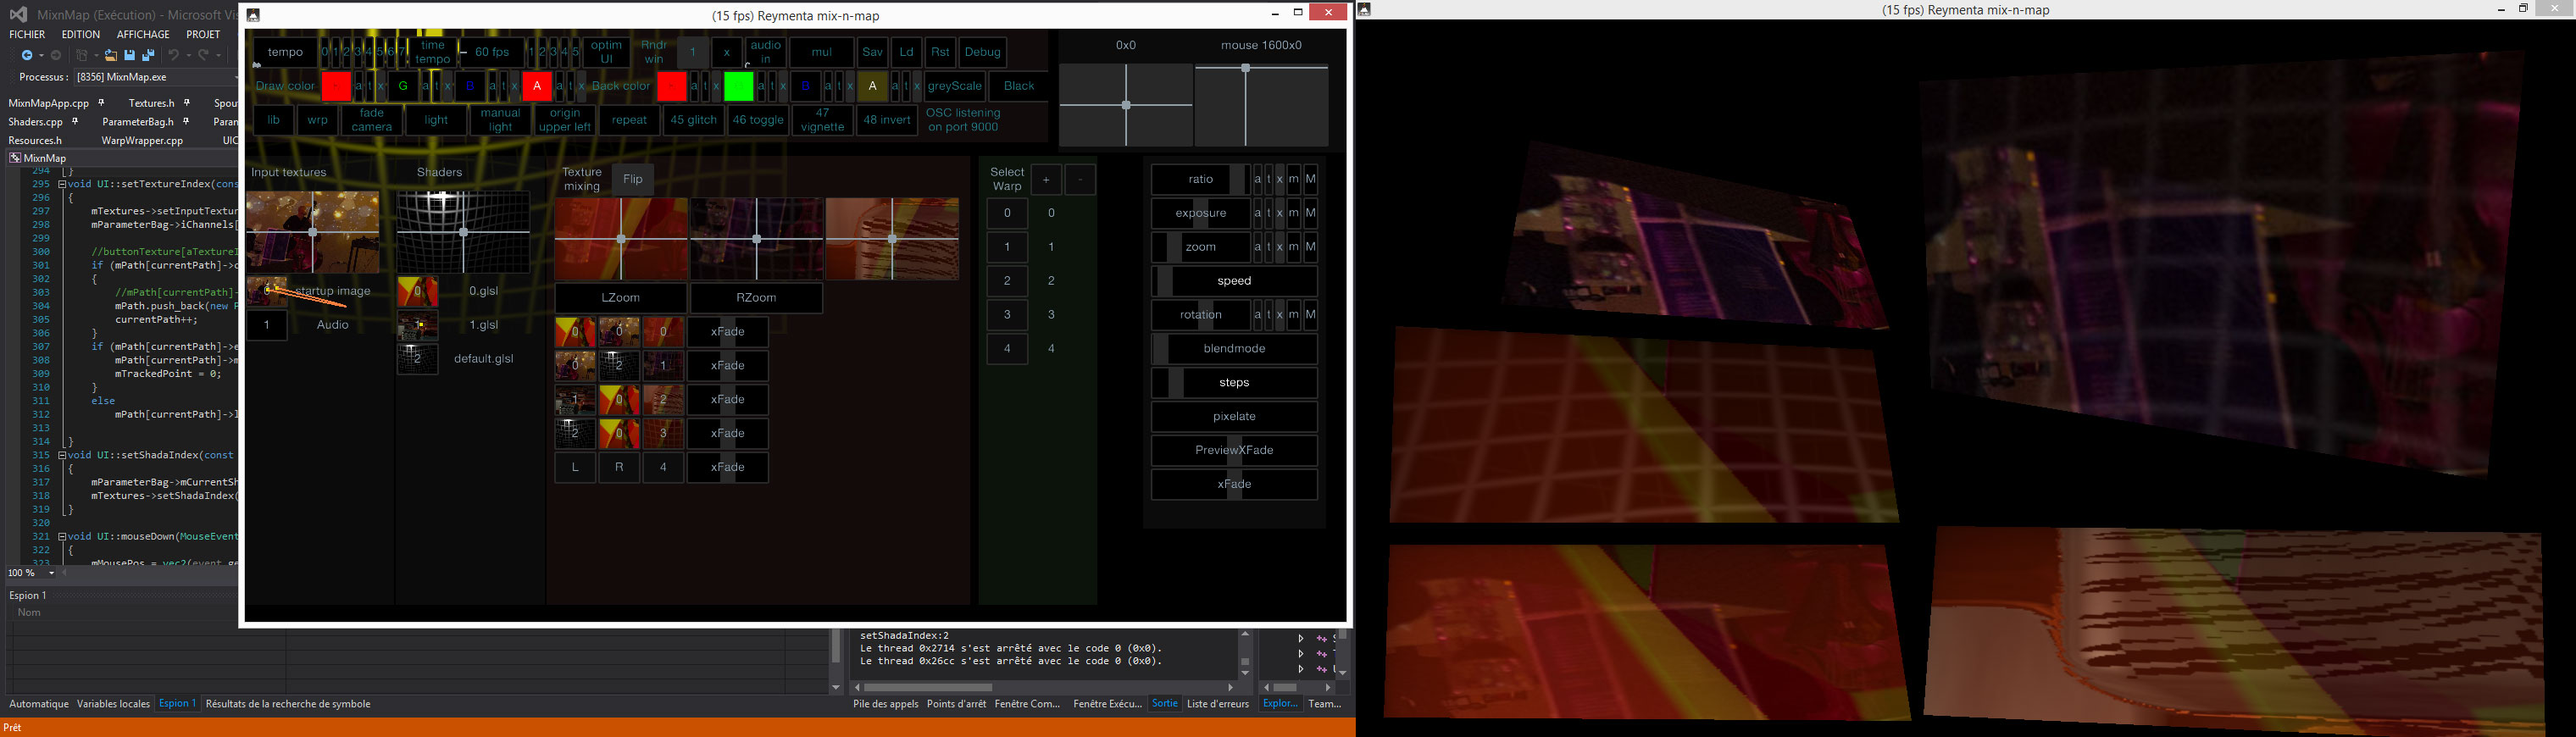
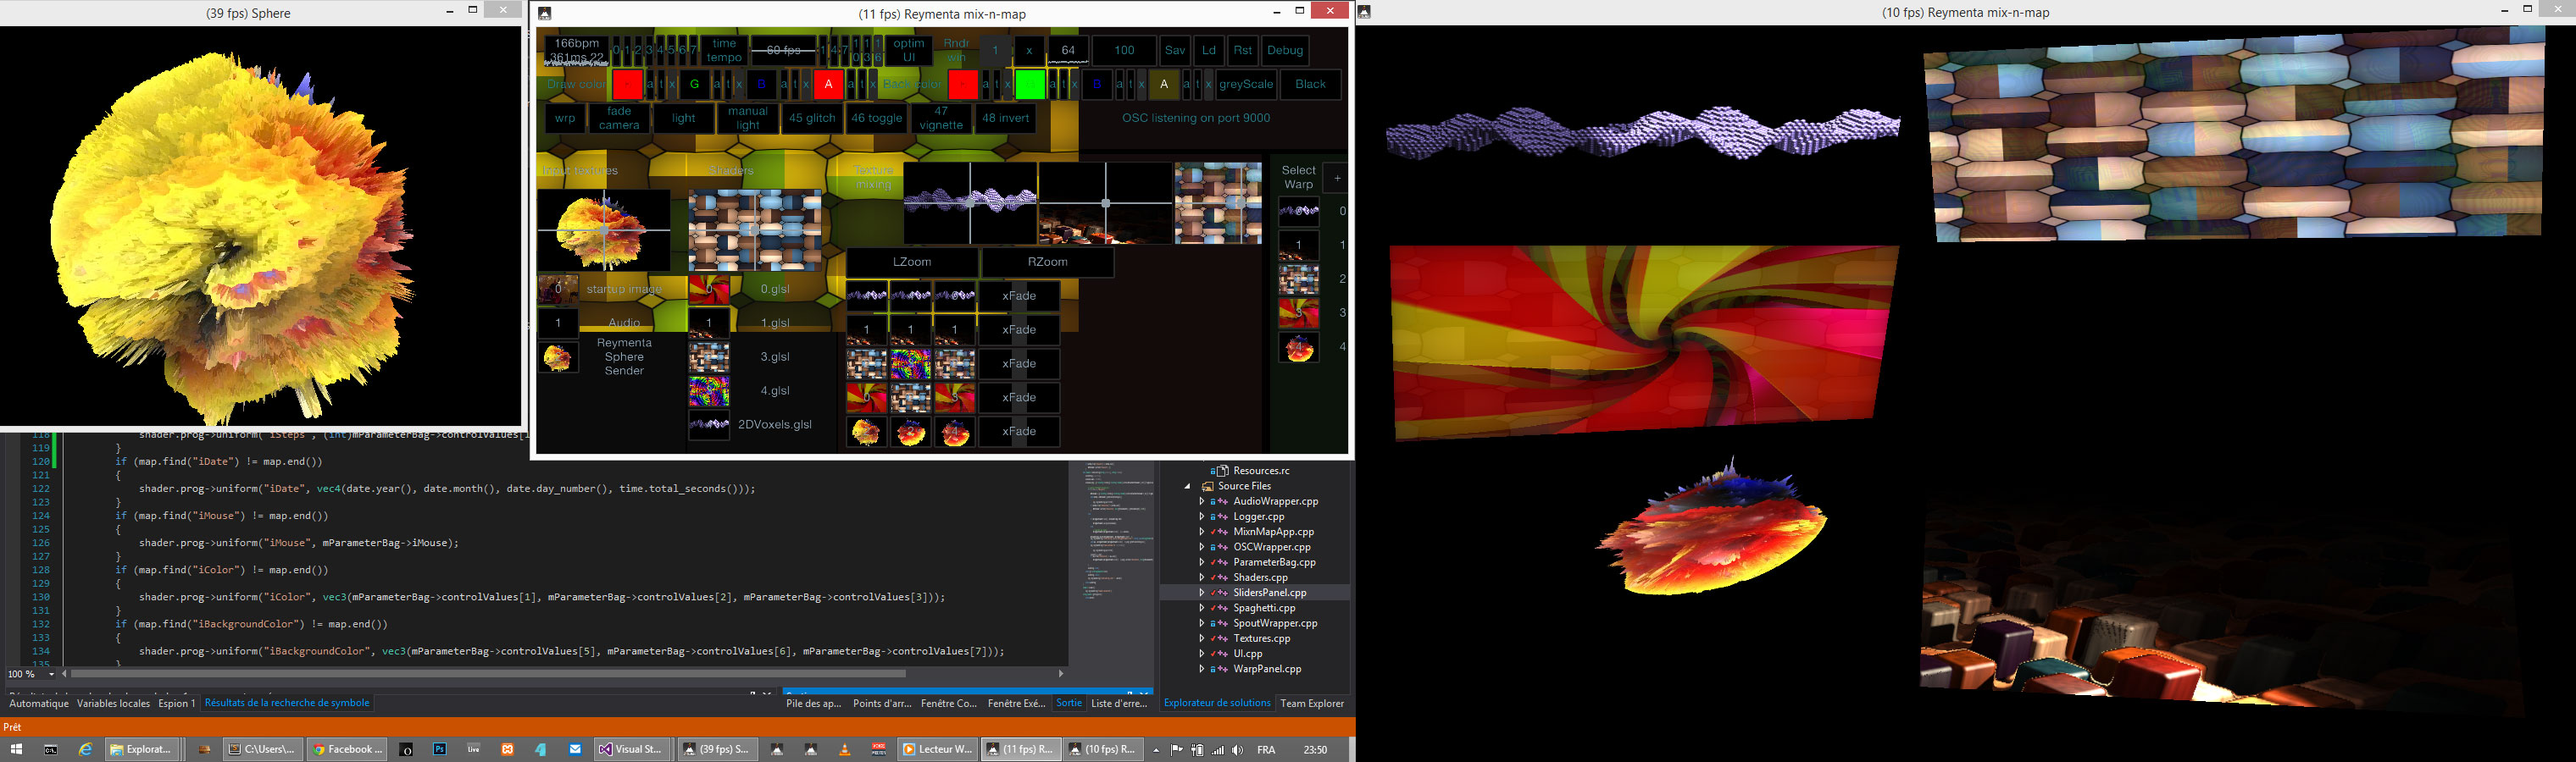
yay

diff --git a/src/UI.cpp b/src/UI.cpp
@@ -66,7 +66,7 @@ void UI::createWarp()
 
 void UI::setupMiniControl()
 {
-	mMiniControl = UIController::create("{ \"x\":0, \"y\":0, \"depth\":100, \"width\":948, \"height\":134, \"fboNumSamples\":0, \"panelColor\":\"0x44402828\" }");
+	mMiniControl = UIController::create("{ \"x\":0, \"y\":0, \"depth\":100, \"width\":960, \"height\":144, \"fboNumSamples\":0, \"panelColor\":\"0x44402828\" }");
 	mMiniControl->setFont("label", mParameterBag->mLabelFont);
 	mMiniControl->setFont("smallLabel", mParameterBag->mSmallLabelFont);
 	mMiniControl->setFont("icon", mParameterBag->mIconFont);
@@ -157,19 +157,17 @@ void UI::setupMiniControl()
 	mMiniControl->addButton("light", std::bind(&UI::toggleLight, this, std::placeholders::_1), "{ \"clear\":false, \"width\":72, \"stateless\":false }");
 	mMiniControl->addButton("manual light", std::bind(&UI::toggleLightAuto, this, std::placeholders::_1), "{ \"clear\":false, \"width\":72, \"stateless\":false }");
 
-	mMiniControl->addButton("origin\nupper left", std::bind(&UI::toggleOriginUpperLeft, this, std::placeholders::_1), "{ \"clear\":false, \"width\":72, \"stateless\":false }");
-	mMiniControl->addButton("repeat", std::bind(&UI::toggleRepeat, this, std::placeholders::_1), "{ \"clear\":false, \"width\":72, \"stateless\":false }");
 	mMiniControl->addButton("45 glitch", std::bind(&UI::toggleGlitch, this, std::placeholders::_1), "{ \"clear\":false, \"width\":72, \"stateless\":false }");
 	mMiniControl->addButton("46 toggle", std::bind(&UI::toggleAudioReactive, this, std::placeholders::_1), "{ \"clear\":false, \"width\":72, \"stateless\":false }");
 	mMiniControl->addButton("47 vignette", std::bind(&UI::toggleVignette, this, std::placeholders::_1), "{ \"clear\":false, \"width\":72, \"stateless\":false }");
 	mMiniControl->addButton("48 invert", std::bind(&UI::toggleInvert, this, std::placeholders::_1), "{ \"clear\":false, \"width\":72, \"stateless\":false }");
 
-	labelOSC = mMiniControl->addLabel("OSC", "{ \"clear\":false, \"width\":100 }");
-	labelInfo = mMiniControl->addLabel("Info", "{ \"width\":100 }");
+	labelOSC = mMiniControl->addLabel("OSC", "{ \"width\":370 }");
+	labelError = mMiniControl->addLabel("", "{ \"width\":960 }");
 }
 void UI::setupGlobal()
 {
-	gParams = UIController::create("{ \"x\":960, \"y\":0, \"depth\":280, \"width\":340, \"height\":146, \"marginLarge\":2, \"fboNumSamples\":0, \"panelColor\":\"0x44282828\", \"defaultBackgroundColor\":\"0xFF0d0d0d\", \"defaultNameColor\":\"0xFF90a5b6\", \"defaultStrokeColor\":\"0xFF282828\", \"activeStrokeColor\":\"0xFF919ea7\" }", mWindow);
+	gParams = UIController::create("{ \"x\":964, \"y\":0, \"depth\":280, \"width\":332, \"height\":146, \"marginLarge\":2, \"fboNumSamples\":0, \"panelColor\":\"0x44282828\", \"defaultBackgroundColor\":\"0xFF0d0d0d\", \"defaultNameColor\":\"0xFF90a5b6\", \"defaultStrokeColor\":\"0xFF282828\", \"activeStrokeColor\":\"0xFF919ea7\" }", mWindow);
 	gParams->setFont("label", mParameterBag->mLabelFont);
 	gParams->setFont("smallLabel", mParameterBag->mSmallLabelFont);
 	gParams->setFont("icon", mParameterBag->mIconFont);
@@ -186,8 +184,6 @@ void UI::setupGlobal()
 
 	string posXY = toString(mParameterBag->mRenderWidth * 3) + ", \"minY\":" + toString(mParameterBag->mRenderHeight) + ", \"maxY\":0.0, \"width\":" + toString(mParameterBag->mPreviewWidth) + " }";
 	sliderRenderPosXY = gParams->addSlider2D("renderPosXY", &mParameterBag->mRenderPosXY, "{ \"minX\":0.0, \"maxX\":" + posXY);
-
-	labelError = gParams->addLabel("no error", "{ \"clear\":false, \"width\":370, \"nameColor\":\"0xFFAA0000\" }");
 }
 void UI::setupTextures()
 {
@@ -233,16 +229,11 @@ void UI::setupLibrary()
 	mixParams->setFont("footer", mParameterBag->mFooterFont);
 	mPanels.push_back(mixParams);
 	mixParams->addLabel("Texture mixing", "{ \"clear\":false, \"width\":64 }");
-	flipButton = mixParams->addButton("Flip", std::bind(&UI::flipLibraryCurrentFbo, this, std::placeholders::_1), "{ \"width\":48, \"stateless\":false, \"pressed\":true }");
 	sliderLeftRenderXY = mixParams->addSlider2D("LeftXY", &mParameterBag->mLeftRenderXY, "{ \"clear\":false, \"minX\":-2.0, \"maxX\":2.0, \"minY\":-2.0, \"maxY\":2.0, \"width\":" + toString(mParameterBag->mPreviewWidth) + " }");
 	sliderRightRenderXY = mixParams->addSlider2D("RightXY", &mParameterBag->mRightRenderXY, "{ \"clear\":false, \"minX\":-2.0, \"maxX\":2.0, \"minY\":-2.0, \"maxY\":2.0, \"width\":" + toString(mParameterBag->mPreviewWidth) + " }");
 	sliderMixRenderXY = mixParams->addSlider2D("MixXY", &mParameterBag->mPreviewRenderXY, "{ \"minX\":-2.0, \"maxX\":2.0, \"minY\":-2.0, \"maxY\":2.0, \"width\":" + toString(mParameterBag->mPreviewWidth) + " }");
 	mixParams->addSlider("LZoom", &mParameterBag->iZoomLeft, "{ \"clear\":false, \"width\":" + toString(mParameterBag->mPreviewWidth) + ", \"min\":0.1, \"max\":5.0 }");
 	mixParams->addSlider("RZoom", &mParameterBag->iZoomRight, "{ \"width\":" + toString(mParameterBag->mPreviewWidth) + ", \"min\":0.1, \"max\":5.0 }");
-}
-void UI::flipLibraryCurrentFbo(const bool &pressed)
-{
-	mTextures->flipMixFbo(pressed);
 }
 
 void UI::setPreview(const int &aIndex, const bool &pressed)
@@ -612,7 +603,6 @@ void UI::update()
 				fpsMvg->setName(toString(floor(mParameterBag->iFps)) + " fps");
 
 				labelOSC->setName(mParameterBag->OSCMsg);
-				labelInfo->setName(mParameterBag->InfoMsg);
 				labelError->setName(mShaders->getFragError());
 
 				for (int i = 0; i < buttonShada.size(); i++)
@@ -760,10 +750,6 @@ void UI::toggleOptimizeUI(const bool &pressed)
 {
 	mParameterBag->mOptimizeUI = pressed;
 }
-void UI::toggleRepeat(const bool &pressed)
-{
-	mParameterBag->iRepeat = pressed;
-}
 void UI::toggleLight(const bool &pressed)
 {
 	mParameterBag->iLight = pressed;
@@ -781,10 +767,6 @@ void UI::toggleGreyScale(const bool &pressed)
 		mParameterBag->controlValues[5] = mParameterBag->controlValues[6] = mParameterBag->controlValues[7];
 	}
 
-}
-void UI::toggleOriginUpperLeft(const bool &pressed)
-{
-	mParameterBag->mOriginUpperLeft = pressed;
 }
 void UI::useLineIn(const bool &pressed)
 {

diff --git a/include/UI.h b/include/UI.h
@@ -51,13 +51,11 @@ namespace Reymenta
 		void								toggleOptimizeUI(const bool &pressed);
 		void								toggleAudioReactive(const bool &pressed);
 		void								toggleVignette(const bool &pressed);
-		void								toggleRepeat(const bool &pressed);
 		void								toggleInvert(const bool &pressed);
 		void								toggleLight(const bool &pressed);
 		void								toggleLightAuto(const bool &pressed);
 		void								toggleFade(const bool &pressed);
 		void								toggleGreyScale(const bool &pressed);
-		void								toggleOriginUpperLeft(const bool &pressed);
 		void								InstantBlack(const bool &pressed);
 		void								debug(const bool &pressed);
 		void								showFps(const bool &pressed);
@@ -105,7 +103,7 @@ namespace Reymenta
 		MinimalUI::UIElementRef				labelXY, labelPosXY;
 		MinimalUI::UIElementRef				sliderRenderXY, sliderRenderPosXY, sliderXSpeed, sliderYSpeed, sliderPreviewTextureXY, sliderPreviewShadaXY;
 
-		MinimalUI::UIElementRef				labelOSC, labelError, labelLayer, labelInfo;
+		MinimalUI::UIElementRef				labelOSC, labelError, labelLayer;
 		MinimalUI::UIElementRef				buttonChannels;
 		vector<MinimalUI::UIElementRef>		buttonShada, buttonTexture, labelTexture, labelShada;
 		
@@ -176,14 +174,12 @@ namespace Reymenta
 		void								resetSettings(const bool &pressed = true);
 
 		// library panel
-		void								flipLibraryCurrentFbo(const bool &pressed);
-
 		void								setLeftInput(const int &aIndex, const bool &pressed);
 		void								setRightInput(const int &aIndex, const bool &pressed);
 		void								setPreview(const int &aIndex, const bool &pressed);
 
 		vector<MinimalUI::UIElementRef>		buttonSelect, buttonLeft, buttonRight, sliderCrossfade;
-		MinimalUI::UIElementRef				flipButton, sliderLeftRenderXY, sliderRightRenderXY, sliderMixRenderXY;
+		MinimalUI::UIElementRef				sliderLeftRenderXY, sliderRightRenderXY, sliderMixRenderXY;
 
 };
 }

diff --git a/src/Shaders.cpp b/src/Shaders.cpp
@@ -28,7 +28,7 @@ Shaders::Shaders(ParameterBagRef aParameterBag)
 	localFile = getAssetPath("") / "shaders" / fileName;
 	loadPixelFragmentShader(localFile.string());
 	//! init some shaders
-	for (size_t m = 0; m < 3; m++)
+	for (size_t m = 0; m < 8; m++)
 	{
 		fileName = toString(m) + ".glsl";
 		localFile = getAssetPath("") / "shaders" / fileName;
@@ -74,7 +74,6 @@ bool Shaders::loadPixelFragmentShader(const fs::path &fragment_path)
 		if (mFile.find_last_of("\\") != std::string::npos) mFragFileName = mFile.substr(mFile.find_last_of("\\") + 1);
 		if (fs::exists(fragment_path))
 		{
-			//validFrag = false;
 			std::string fs = header + loadString(loadFile(fragment_path));
 			rtn = setGLSLString(fs, mFragFileName);
 		}
@@ -93,12 +92,6 @@ bool Shaders::loadPixelFragmentShader(const fs::path &fragment_path)
 		mError = string(e.what());
 		log->logTimedString(mFile + " unable to load shader:" + string(e.what()));
 	}
-	if (!rtn)
-	{
-		// error load default fragment shader
-		std::string fs = header + defaultFragmentShader;
-		rtn = setGLSLString(fs, "default.glsl");
-	}
 	return rtn;
 }
 void Shaders::update()
@@ -115,6 +108,14 @@ void Shaders::update()
 		if (map.find("iGlobalTime") != map.end())
 		{
 			shader.prog->uniform("iGlobalTime", static_cast<float>(getElapsedSeconds()));
+		}
+		if (map.find("iZoom") != map.end())
+		{
+			shader.prog->uniform("iZoom", mParameterBag->controlValues[13]);
+		}
+		if (map.find("iSteps") != map.end())
+		{
+			shader.prog->uniform("iSteps", (int)mParameterBag->controlValues[16]);
 		}
 		if (map.find("iDate") != map.end())
 		{

diff --git a/include/ParameterBag.h b/include/ParameterBag.h
@@ -33,13 +33,13 @@ namespace Reymenta {
 	{
 	public:
 		ParameterBag();
-		static ParameterBagRef create();
+		static ParameterBagRef		create();
 
-		bool save();
-		bool restore();
-		void reset();
+		bool						save();
+		bool						restore();
+		void						reset();
 		// fonts
-		ci::Font mLabelFont, mSmallLabelFont, mIconFont, mHeaderFont, mBodyFont, mFooterFont;
+		ci::Font					mLabelFont, mSmallLabelFont, mIconFont, mHeaderFont, mBodyFont, mFooterFont;
 
 		// params
 		std::string					mOSCDestinationHost;
@@ -47,7 +47,6 @@ namespace Reymenta {
 		int							mOSCReceiverPort;
 		std::string					OSCMsg;
 		int							mPreviewWidth, mPreviewHeight;
-		std::string					InfoMsg;
 		// render windows
 		int							mRenderWidth;
 		int							mRenderHeight;
@@ -71,8 +70,8 @@ namespace Reymenta {
 		ColorA						FPSColor;
 		ColorA						ColorGreen;
 		ColorA						ColorRed;
-		//! maximum bound for fbos, shaders, textures
-		static const int			MAX = 8;
+		//! maximum number of fbos, shaders, textures
+		static const int			MAX = 16;
 		// audio
 		float						*mData;
 		float						maxVolume;
@@ -80,8 +79,6 @@ namespace Reymenta {
 		float						mAudioMultFactor;
 		float						iFreqs[4];
 		int							mAudioTextureIndex;
-		// Textures
-		bool						mOriginUpperLeft;
 
 		// OSC/MIDI/JSON controlled UI and params
 		map<int, float>				controlValues;
@@ -91,7 +88,6 @@ namespace Reymenta {
 		map<int, int>				iWarpFboChannels;
 		// fbos
 		int							mFboWidth, mFboHeight;
-		bool						mFlipFbo;
 		int							mWarpCount;
 		int							mCurrentShadaFboIndex;
 		int							mMixFboIndex;

diff --git a/src/MixnMapApp.cpp b/src/MixnMapApp.cpp
@@ -245,6 +245,7 @@ void MixnMapApp::drawRender()
 	//! clear the window
 	gl::clear();
 	gl::pushMatrices();
+	// origin upper left set to false for warps
 	gl::setMatricesWindow(mParameterBag->mRenderWidth, mParameterBag->mRenderHeight, false);
 	gl::pushViewport(0, 0, mParameterBag->mRenderWidth, mParameterBag->mRenderHeight);
 	
@@ -265,7 +266,6 @@ void MixnMapApp::drawMain()
 {
 	//! clear the window
 	gl::clear(ColorAf(0.0f, 0.0f, 0.0f, 0.0f));
-	//gl::setMatricesWindow(getWindowSize());
 	//! draw Spout received textures
 	mSpout->draw();
 	mTextures->draw();
@@ -313,7 +313,7 @@ void MixnMapApp::createRenderWindow()
 
 #ifdef _DEBUG
 	// debug mode
-	mRenderWindow->setPos(mParameterBag->mRenderX, 20);	
+	mRenderWindow->setPos(mParameterBag->mRenderX, 40);	
 #else
 	mRenderWindow->setBorderless();
 	mRenderWindow->setPos(mParameterBag->mRenderX, 0);
@@ -446,11 +446,6 @@ void MixnMapApp::keyDown(KeyEvent event)
 	case KeyEvent::KEY_s:
 		showCursor();
 		mParameterBag->mShowUI = true;
-		break;
-	case KeyEvent::KEY_p:
-		// flip fbo
-		mParameterBag->mFlipFbo = !mParameterBag->mFlipFbo;
-		mTextures->flipMixFbo(mParameterBag->mFlipFbo);
 		break;
 	case KeyEvent::KEY_SPACE:
 		// save warp settings

diff --git a/src/ParameterBag.cpp b/src/ParameterBag.cpp
@@ -166,12 +166,10 @@ void ParameterBag::reset()
 
 
 	// fbo
-	mFlipFbo = false;
 	mFboWidth = 640;
 	mFboHeight = 360;
 	mPreviewWidth = 156;
 	mPreviewHeight = 88;
-	mOriginUpperLeft = false;
 	mCurrentShadaFboIndex = 0;
 	mMixFboIndex = 1;
 	mLeftFboIndex = 2;
@@ -183,7 +181,6 @@ void ParameterBag::reset()
 	mOSCDestinationPort = 7000;
 	mOSCReceiverPort = 9000;
 	OSCMsg = "OSC listening on port 9000";
-	InfoMsg = "";
 	// colors
 	mLockFR = mLockFG = mLockFB = mLockFA = mLockBR = mLockBG = mLockBB = mLockBA = false;
 	tFR = tFG = tFB = tFA = tBR = tBG = tBB = tBA = false;

diff --git a/src/SlidersPanel.cpp b/src/SlidersPanel.cpp
@@ -45,7 +45,7 @@ SlidersPanelRef SlidersPanel::create(ParameterBagRef aParameterBag, ShadersRef a
 
 void SlidersPanel::setupParams()
 {
-	mParams = UIController::create("{ \"visible\":true, \"x\":1060, \"y\":150, \"height\":440, \"depth\":250, \"panelColor\":\"0x44282828\" }");
+	mParams = UIController::create("{ \"visible\":true, \"x\":1074, \"y\":150, \"height\":440, \"depth\":250, \"panelColor\":\"0x44282828\" }");
 	mParams->DEFAULT_UPDATE_FREQUENCY = 12;
 	// set custom fonts for a UIController
 	mParams->setFont("label", mParameterBag->mLabelFont);

diff --git a/src/Spaghetti.cpp b/src/Spaghetti.cpp
@@ -20,7 +20,7 @@ Spaghetti::Spaghetti(ParameterBagRef aParameterBag, TexturesRef aTextures)
 void Spaghetti::drawPath()
 {
 	// draw bezier
-	if (mPath[currentPath]->calcLength() > 2)
+	/*if (mPath[currentPath]->calcLength() > 2)
 	{
 		//mPath[currentPath]->clear();
 		mPath.push_back(new Path2d());
@@ -32,7 +32,7 @@ void Spaghetti::drawPath()
 	}
 	else
 		mPath[currentPath]->lineTo(mMousePos);
-
+	*/
 }
 void Spaghetti::mouseDown(MouseEvent event)
 {

diff --git a/src/Textures.cpp b/src/Textures.cpp
@@ -196,12 +196,6 @@ void Textures::setTextureFromFile(string fileName)
 	}
 }
 
-void Textures::flipMixFbo(bool flip)
-{
-	//mFbos[0].getTexture(0).setFlipped(flip);
-	//mixTextures[0].setFlipped(flip);
-	mParameterBag->mOriginUpperLeft = flip;
-}
 void Textures::saveThumb()
 {
 	string filename = mShaders->getFragFileName() + ".jpg";

diff --git a/include/Textures.h b/include/Textures.h
@@ -89,7 +89,6 @@ namespace Reymenta
 		void						update();
 		void						shutdown();
 		void						setSenderTextureSize(int index, int width, int height);
-		void						flipMixFbo(bool flip);
 		char*						getSenderName(int index);
 		void						renderShadersToFbo();
 		void						renderMixesToFbo();

diff --git a/README.md b/README.md
@@ -16,6 +16,6 @@ Compile
 
 Follow me on https://www.facebook.com/reymentavisuals
 
-<b>If you wish to make a donation, my paypal is bruce at batchass dot fr</b>
+If you wish to make a donation, my paypal is bruce at batchass dot fr
 
 ![screenshot 1](https://raw.githubusercontent.com/brucelane/reymenta-mixnmap/master/documentation/images/screencapture.jpg?raw=true)
